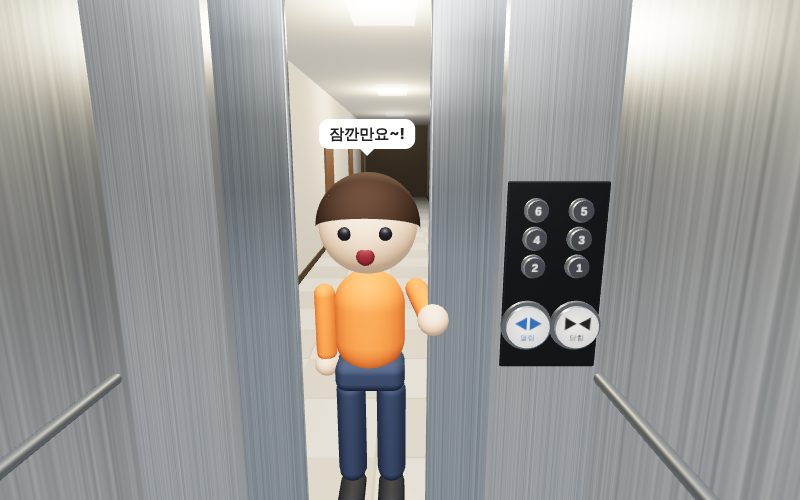
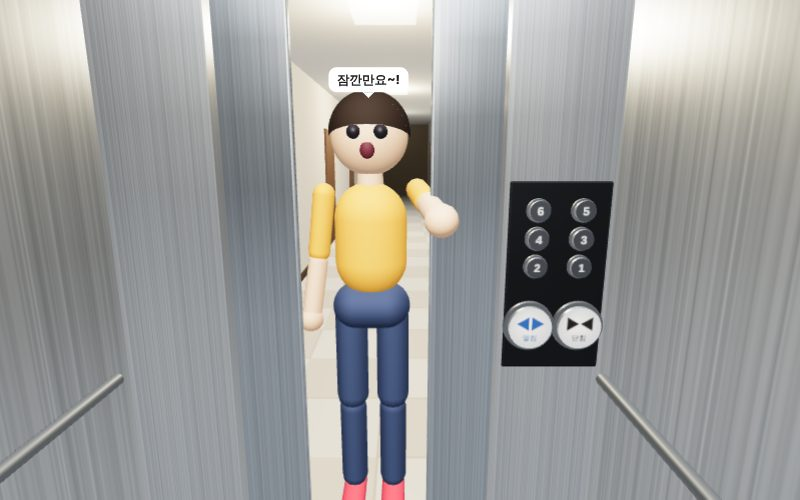
Elevator: use the shared 민서민서김 character
The runner now comes from shared/minseo3d.js (the 'runner' look) like
every other game, with the kit's run cycle, reaching arm, surprised
mouth while shouting, and blinking. The module hands its three.js to
the kit as a global before loading it. Refresh the thumbnail.

Claude-Session: https://claude.ai/code/session_01WCRVuRwBHe9mBkrtFeCppR

diff --git a/elevator/index.html b/elevator/index.html
@@ -309,83 +309,26 @@ for (let z = -3.2; z > -HALL_LEN + 1; z -= 3.6) {
 for (const s of [-1, 1]) box(0.02, 0.1, HALL_LEN, mat(0x5a4a3a, 0.8), s * (HALL_W / 2 - 0.06), 0.05, hallZ);
 
 // ---------------------------------------------------------------- 뛰어오는 사람
-// DrumSimulator 드러머처럼 기본 도형으로 만든 큰 머리·점 눈 캐릭터. 그룹의 +Z가 얼굴 방향
-function makePerson() {
-  const skin = mat(0xffd2b0, 0.65), shirt = mat(0xff7a2f, 0.8), pants = mat(0x34425e, 0.85);
-  const shoes = mat(0x24262c, 0.6), hairM = mat(0x3a2618, 0.9), dark = mat(0x1d1a26, 0.4);
-  const root = new THREE.Group();
-  const body = new THREE.Group();
-  root.add(body);
-
-  const leg = (s) => {
-    const p = new THREE.Group();
-    p.position.set(s * 0.09, 0.62, 0);
-    const l = new THREE.Mesh(new THREE.CapsuleGeometry(0.065, 0.4, 4, 12), pants);
-    l.position.y = -0.27;
-    const shoe = new THREE.Mesh(new THREE.CapsuleGeometry(0.06, 0.12, 4, 12), shoes);
-    shoe.rotation.x = Math.PI / 2;
-    shoe.scale.set(1, 1, 0.7);
-    shoe.position.set(0, -0.56, 0.05);
-    p.add(l, shoe);
-    body.add(p);
-    return p;
-  };
-  const legL = leg(-1), legR = leg(1);
-
-  const hips = new THREE.Mesh(new RoundedBoxGeometry(0.3, 0.14, 0.2, 3, 0.05), pants);
-  hips.position.y = 0.65;
-  const torso = new THREE.Mesh(new THREE.CapsuleGeometry(0.15, 0.16, 8, 20), shirt);
-  torso.scale.z = 0.8;
-  torso.position.y = 0.88;
-  body.add(hips, torso);
-
-  const arm = (s) => {
-    const p = new THREE.Group();
-    p.position.set(s * 0.19, 1.04, 0);
-    const a = new THREE.Mesh(new THREE.CapsuleGeometry(0.045, 0.26, 4, 12), shirt);
-    a.position.y = -0.17;
-    const hand = new THREE.Mesh(new THREE.SphereGeometry(0.055, 16, 12), skin);
-    hand.position.y = -0.36;
-    p.add(a, hand);
-    body.add(p);
-    return p;
-  };
-  const armL = arm(-1), armR = arm(1);
-
-  const head = new THREE.Group();
-  head.position.y = 1.3;
-  body.add(head);
-  head.add(new THREE.Mesh(new THREE.SphereGeometry(0.2, 32, 24), skin));
-  const hair = new THREE.Mesh(new THREE.SphereGeometry(0.212, 32, 16, 0, Math.PI * 2, 0, Math.PI * 0.52), hairM);
-  hair.rotation.x = -0.35;
-  head.add(hair);
-  for (const s of [-1, 1]) {
-    const e = new THREE.Mesh(new THREE.SphereGeometry(0.026, 12, 10), dark);
-    e.position.set(s * 0.075, 0.0, 0.185);
-    e.scale.z = 0.6;
-    head.add(e);
-  }
-  const mouth = new THREE.Mesh(new THREE.SphereGeometry(0.035, 12, 10), mat(0x7a2430, 0.6));
-  mouth.position.set(0, -0.085, 0.18);
-  mouth.scale.set(1, 0.6, 0.4);
-  head.add(mouth);
-
-  return { root, body, legL, legR, armL, armR, head, mouth };
-}
-const person = makePerson();
+// 민서민서김 공용 캐릭터(../shared/minseo3d.js). 이 파일은 전역 THREE를 쓰므로 모듈의 three를 넘겨 준 뒤 불러온다
+window.THREE = THREE;
+await new Promise((resolve, reject) => {
+  const el = document.createElement('script');
+  el.src = '../shared/minseo3d.js';
+  el.onload = resolve;
+  el.onerror = reject;
+  document.head.appendChild(el);
+});
+const person = window.MS3D.person(window.MS3D.LOOKS.runner);
 scene.add(person.root);
 
 /** 달리기·걷기 자세. phase는 걸음 위상, stride는 보폭(0 = 서 있음), reach는 오른팔을 앞으로 뻗은 정도 */
 function posePerson(phase, stride, reach, shout) {
-  const s = Math.sin(phase);
-  person.legL.rotation.x = s * 0.9 * stride;
-  person.legR.rotation.x = -s * 0.9 * stride;
-  person.armL.rotation.x = -s * 0.8 * stride;
-  person.armR.rotation.x = THREE.MathUtils.lerp(s * 0.8 * stride, -1.55, reach);
-  person.armR.rotation.z = reach * 0.15;
-  person.body.position.y = Math.abs(Math.cos(phase)) * 0.06 * stride;
-  person.body.rotation.x = 0.18 * stride;
-  person.mouth.scale.y = shout ? 1.1 : 0.4;
+  person.run(phase, stride);
+  if (reach > 0) {
+    const swing = Math.sin(phase) * 0.9 * stride;
+    person.arm('R', THREE.MathUtils.lerp(swing, 1.5, reach), 0.1, THREE.MathUtils.lerp(1.2 * stride, 0, reach));
+  }
+  person.panic(shout);
 }
 
 // ---------------------------------------------------------------- 버튼
@@ -746,6 +689,7 @@ function frame(now) {
       posePerson(0, 0, 0, false);
     } else {
       doorTarget = 1;
+      person.root.rotation.y = Math.PI; // 프레임이 느려도 끝까지 돌아서게
       if (u > 2.3 && bubbleText) setBubble('');
       if (u > 3.0 && floorNow === 1) { floorNow = 2; drawFloor('2', true); }
       if (u > 3.3) showResult(false);
@@ -780,6 +724,7 @@ function frame(now) {
       : '';
   }
 
+  person.update(now / 1000); // 눈 깜빡임
   renderer.render(scene, camera);
 
   // 말풍선은 사람 머리 위 화면 위치를 따라간다
